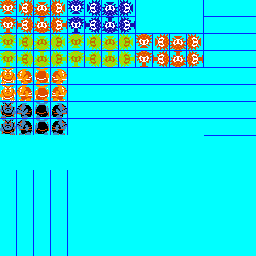
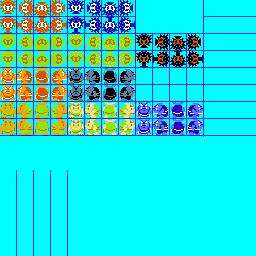
Enemies flicker when hit and sliding backward

diff --git a/src/app/zelda/Enemy.ts b/src/app/zelda/Enemy.ts
@@ -33,7 +33,7 @@ module zelda {
                 else {
                     game.audio.playSound('enemyHit');
                     this.takingDamage = true;
-                    this._slideTick = 30;
+                    this._slideTick = Character.MAX_SLIDE_TICK;
                     this._slidingDir = other.dir;
                 }
             }
@@ -49,6 +49,42 @@ module zelda {
 
         set health(health: number) {
             this._health = health;
+        }
+
+
+        protected paintImpl(ctx: CanvasRenderingContext2D, row: number, colOffset: number) {
+
+            this.possiblyPaintHitBox(ctx);
+
+            let col: number = DirectionUtil.ordinal(this.dir) + colOffset;
+
+            if (this._slideTick > 0) {
+                switch (this._slideTick % 5) {
+                    case 0:
+                        col %= 4;
+                        break;
+                    case 1:
+                        col = (col % 4) + 4;
+                        break;
+                    case 2:
+                        row += 2;
+                        col %= 4;
+                        break;
+                    case 3:
+                        row += 2;
+                        col = (col % 4) + 4;
+                        break;
+                    case 4:
+                        row += 2;
+                        col = (col % 4) + 8;
+                        break;
+                }
+            }
+
+            const index: number = row * 15 + col;
+            console.log(this.step + ' -- ' + row + ', ' + col);
+            const ss: gtp.SpriteSheet = <gtp.SpriteSheet>game.assets.get('enemies');
+            ss.drawByIndex(ctx, this.x, this.y, index);
         }
 
         protected _touchStepTimer() {

diff --git a/src/app/zelda/Octorok.ts b/src/app/zelda/Octorok.ts
@@ -9,7 +9,7 @@ module zelda {
         private _changeDirTimer: number;
 
         constructor(blue: boolean = false) {
-            super(blue ? 2 : 1);
+            super(blue ? 5 : 4); //2 : 1);
             this._blue = blue;
             this.hitBox = new gtp.Rectangle();
             this._changeDirTimer = CHANGE_DIR_TIMER_MAX;
@@ -69,14 +69,7 @@ module zelda {
         }
 
         paint(ctx: CanvasRenderingContext2D) {
-
-            this.possiblyPaintHitBox(ctx);
-
-            const row: number = this.step;
-            const col: number = DirectionUtil.ordinal(this.dir) + (this._blue ? 4 : 0);
-            const index: number = row * 15 + col;
-            const ss: gtp.SpriteSheet = <gtp.SpriteSheet>game.assets.get('enemies');
-            ss.drawByIndex(ctx, this.x, this.y, index);
+            this.paintImpl(ctx, this.step, this._blue ? 4 : 0);
         }
 
         update() {

diff --git a/src/app/zelda/Link.ts b/src/app/zelda/Link.ts
@@ -42,7 +42,7 @@ module zelda {
                 else {
                     game.audio.playSound('enemyHit');
                     this.takingDamage = true;
-                    this._slideTick = 30;
+                    this._slideTick = Character.MAX_SLIDE_TICK;
                     this._slidingDir = other.dir;
                 }
             }
@@ -151,7 +151,7 @@ module zelda {
             // TODO: This isn't right...
             const tileH: number = Constants.TILE_HEIGHT;
             const offset: number = this.y % tileH;
-            console.log(this.x + ', ' + offset);
+            //console.log(this.x + ', ' + offset);
             if (offset !== 0) {
 
                 const AMT: number = 3;

diff --git a/src/app/zelda/Moblin.ts b/src/app/zelda/Moblin.ts
@@ -69,14 +69,7 @@ module zelda {
         }
 
         paint(ctx: CanvasRenderingContext2D) {
-
-            this.possiblyPaintHitBox(ctx);
-
-            const row: number = 4 + this.step + (this._blue ? 2 : 0);
-            const col: number = DirectionUtil.ordinal(this.dir);
-            const index: number = row * 15 + col;
-            const ss: gtp.SpriteSheet = <gtp.SpriteSheet>game.assets.get('enemies');
-            ss.drawByIndex(ctx, this.x, this.y, index);
+            this.paintImpl(ctx, 4 + this.step, this._blue ? 4 : 0);
         }
 
         update() {

diff --git a/src/app/zelda/Character.ts b/src/app/zelda/Character.ts
@@ -6,6 +6,8 @@ module zelda {
      */
     export abstract class Character extends Actor {
 
+        static MAX_SLIDE_TICK: number = 30;
+        
         protected _slideTick: number;
         protected _slidingDir: Direction;
 
